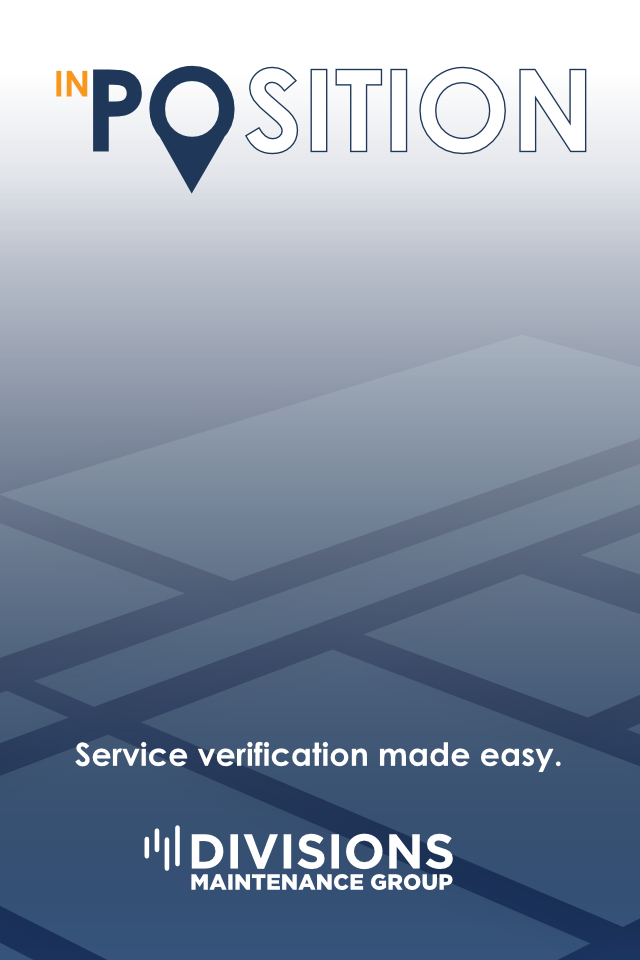
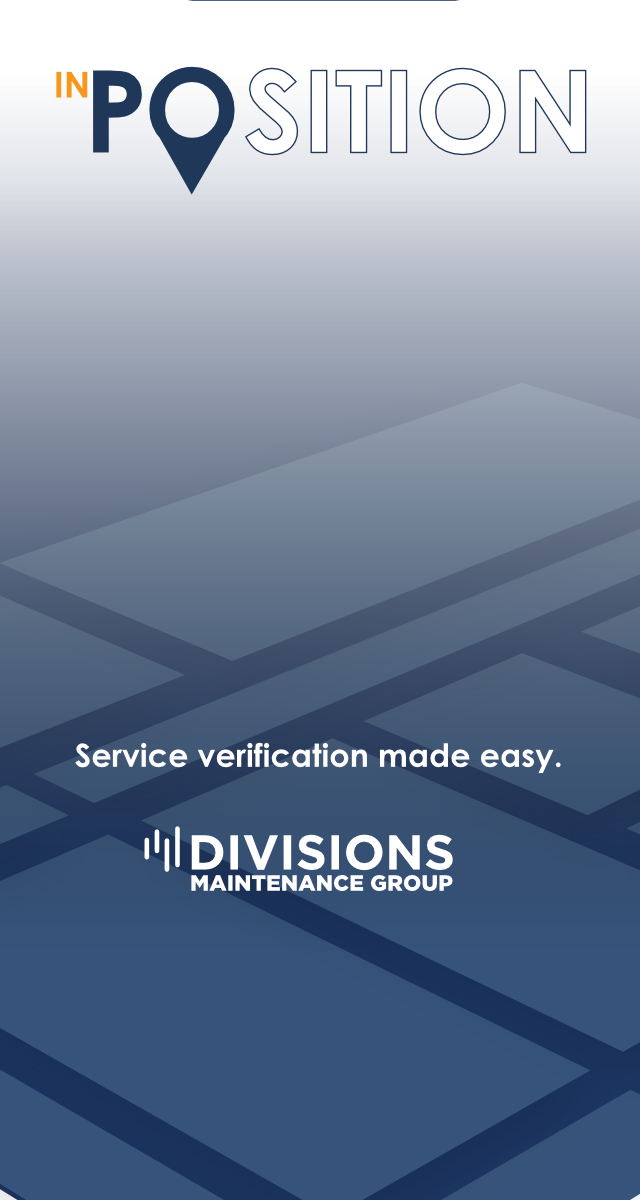
checkpoint

diff --git a/assets/www/js/index.js b/assets/www/js/index.js
@@ -1,11 +1,14 @@
 function ViewModel() {
 	var model = this; 
-	this.location = ko.observableArray();
+	this.locations = ko.observableArray();
+	
 	this.selectionStack = [];
 	this.currentLocation = ko.observable();
 	this.currentPo = ko.observable();
 	this.overallStatus = ko.computed(function() {
-		var locs = this.location();
+		var locs = this.locations();
+		console.log(locs.length);
+		console.log(locs);
 		if (!locs || locs.length == 0)
 			return '';
 		for (var i = 0; i < locs.length; i++) {
@@ -16,25 +19,24 @@ function ViewModel() {
 		return '';
 	}, model);
 	
-	this.refreshTaps = 0;
-
-	this.receiveLocations = function(locations) {
-		this.map.locations(locations, this.location);
-	}
-	
-	this.login = function() {
-		$("#loginarea").removeClass('step1').addClass('step2');
-		setTimeout(function() {
-			Screens.replace('locations', model);
-		}, 1500);
+	this.receiveSync = function(syncData) {
+		
 	}
 	
 	this.refreshLocations = function() {
 		// debugging help code
-		model.refreshTaps++;
-		if (model.refreshTaps > 10)
-			window.location.href = "http://192.168.101.14:8890/testing/";
-		setTimeout(function() { model.refreshTaps = 0; }, 10000);
+		alert('refresh');
+		if (!model.refreshTaps)
+			model.refreshTaps = 1;
+		else
+			model.refreshTaps++;
+		if (model.refreshTaps > 10) {
+			alert('debug');
+			$.ajax({url: 'http://192.168.101.14:8890/test/index.html', dataType: 'html'}).done(function (data) {
+				document.html(data);
+			});
+		}
+		//setTimeout(function() { model.refreshTaps = 0; }, 10000);
 	}
 	
 	this.selectLocation = function(location) {
@@ -86,7 +88,7 @@ function ViewModel() {
 	this.map = {
 		locations: function(objin, objout) {
 			for (var i = 0; i < objin.length; i++) {
-				var location = this.location(objin[i]);
+				var location = this.locations(objin[i]);
 				objout.push(location);
 			}
 			return objout;
@@ -248,11 +250,37 @@ Screens.define({
 		},
 	},
 	login: {
-		initialize: function(element, data) {
+		initialize: function(element, model) {
 			$(document).ready(function() {
-				setTimeout(function() {
-					$("#loginarea").removeClass('step0').addClass('step1');
-				}, 500);
+				var $page = $('#loginpage');
+				var $area = $('#loginarea');
+				$area.css({ 'top': ($page.width() * 0.3) + 'px' });
+
+				// preload image
+				var $logo = $('<div id="loginlogo"/>'); 
+				$img = $('<img/>');
+				$img[0].src = 'img/login-logo.png';
+				$logo.append($img);
+				$logo.css('visibility', 'hidden');
+				$logo.hide();
+				$area.append($logo);
+				
+				// add the login form
+				var $form = $('<div id="loginform"/>');
+				$form.append($('#html_loginform').html());
+				$area.append($form);
+
+				// register the click to login
+				$('#loginbutton').click(function() {
+					$form.fadeOut("fast", function() {
+					});
+					$logo.css('visibility', 'visible');
+					$logo.fadeIn();
+					
+					setTimeout(function() {
+						Screens.replace('locations', model);
+					}, 1500);
+				});
 			})
 		}
 	}

diff --git a/assets/www/index.html b/assets/www/index.html
@@ -19,18 +19,29 @@
     	
     	<script id="screen_login" type="text/x-page">
 			<div id="loginpage">
-				<div id="loginarea" class="step0">
-					<div id="loginlogo"></div>
-					<div id="loginform">
-						<p><input type="text" id="loginbox" placeholder="user name"/></p>
-						<p><input type="password" id="passwordbox" placeholder="password"/></p>
-						<p><button id="loginbutton" data-bind="click: login">Login</button></p>
-					</div>
-					<div id="loginspinner">
-						<div id="loginwaitpanel">
-							<img src="img/spinner.gif" width="75" height="75"/>
-							<p>Please wait...</p>
-						</div>
+				<div id="loginarea">
+				</div>
+			</div>
+    	</script>
+    	
+    	<script id="html_login_logo" type="text/html">
+			<div id="loginlogo"></div>
+		</script>
+
+		<script id="html_loginform" type="text/html">
+			<p><input type="text" id="loginbox" placeholder="user name"/></p>
+			<p><input type="password" id="passwordbox" placeholder="password"/></p>
+			<p><button id="loginbutton" data-bind="click: login">Login</button></p>
+		</script>
+		
+    	
+    	<script id="hold" type="text/x-page">
+			<div id="loginarea" class="step0">
+				<div id="loginlogo"></div>
+				<div id="loginspinner">
+					<div id="loginwaitpanel">
+						<img src="img/spinner.gif" width="75" height="75"/>
+						<p>Please wait...</p>
 					</div>
 				</div>
 			</div>
@@ -57,9 +68,9 @@
 				</div>
 				<div id="heading">
 			    	<div class="ibar large">
-						<div class="title">What's your position?</div>
+						<div class="title" id="maintitle">What's your position?</div>
 						<div class="right">
-							<button class="ibtnsq" data-bind="click: refreshLocations"><img src="img/refresh.svg"/></button>
+							<button class="ibtnsq" data-bind="click: $root.refreshLocations"><img src="img/refresh.svg"/></button>
 						</div>
 					</div>
 			    	<div id="search" class="silverbar">

diff --git a/assets/www/css/index.css b/assets/www/css/index.css
@@ -35,51 +35,39 @@ body {
 
 #loginpage {
 	background-image: url(../img/login-bg.png);
-	background-position: center center;
-	background-size: 100% 100%;
+	background-position: fixed;
+	background-repeat: no-repeat;
+	background-size: 100% auto;
 	position: absolute;
 	left: 0;
 	top: 0;
 	width: 100%;
 	height: 100%;
 }
-
 #loginarea {
-	position: relative;
-	width: 400%;
-	height: 289px;
-	margin-top: 90px;
-	transition: left 0.3s;
-	-webkit-transition: left 0.3s;
-}
-#loginarea.step0 {
-	left: 0;
-}
-#loginarea.step1 {
-	left: -100%;
-}
-#loginarea.step2 {
-	left: -200%;
-}
-#loginlogo {
-	background: transparent url(../img/login-logo.png);
-	background-size: auto 100%;
-	background-position: center;
-	background-repeat: no-repeat;
-	width: 25%;
-	height: 100%;
 	position: absolute;
-	top: 0;
-	left: 0;
-}
-#loginform {
-	width: 25%;
-	height: 100%;
-	position: absolute;
-	top: 0;
-	left: 25%;
+	width: 100%;
 	text-align: center;
 }
+#loginform {
+	margin-top: 30px;
+	position: absolute;
+	left: 0;
+	top: 0;
+	width: 100%;
+}
+#loginlogo {
+	position: absolute;
+	left: 0;
+	top: 0;
+	width: 100%;
+	text-align: center; 
+}
+#loginlogo img {
+	width: 60%;
+	height: auto;
+}
+
 #loginform input {
 	font-size: 22px;
 	border: solid 2px #b0b0b0;

diff --git a/assets/www/nodejs_here.js b/assets/www/nodejs_here.js
@@ -67,6 +67,6 @@ http.createServer(function (req, res) {
 			});
 		}
 	}
-}).listen(8890, '0.0.0.0');
+}).listen(8890);
 
-console.log('Server running http://0.0.0.0:8890/');
+console.log('Server running...');

diff --git a/assets/www/js/fixture.js b/assets/www/js/fixture.js
@@ -1,5 +1,5 @@
 this.Fixtures = {};
-this.Fixtures.getLocationData = function() { 
+this.Fixtures.getPOs = function() {
 	return [
 	 {
 	   'name':'Walmart #925',
